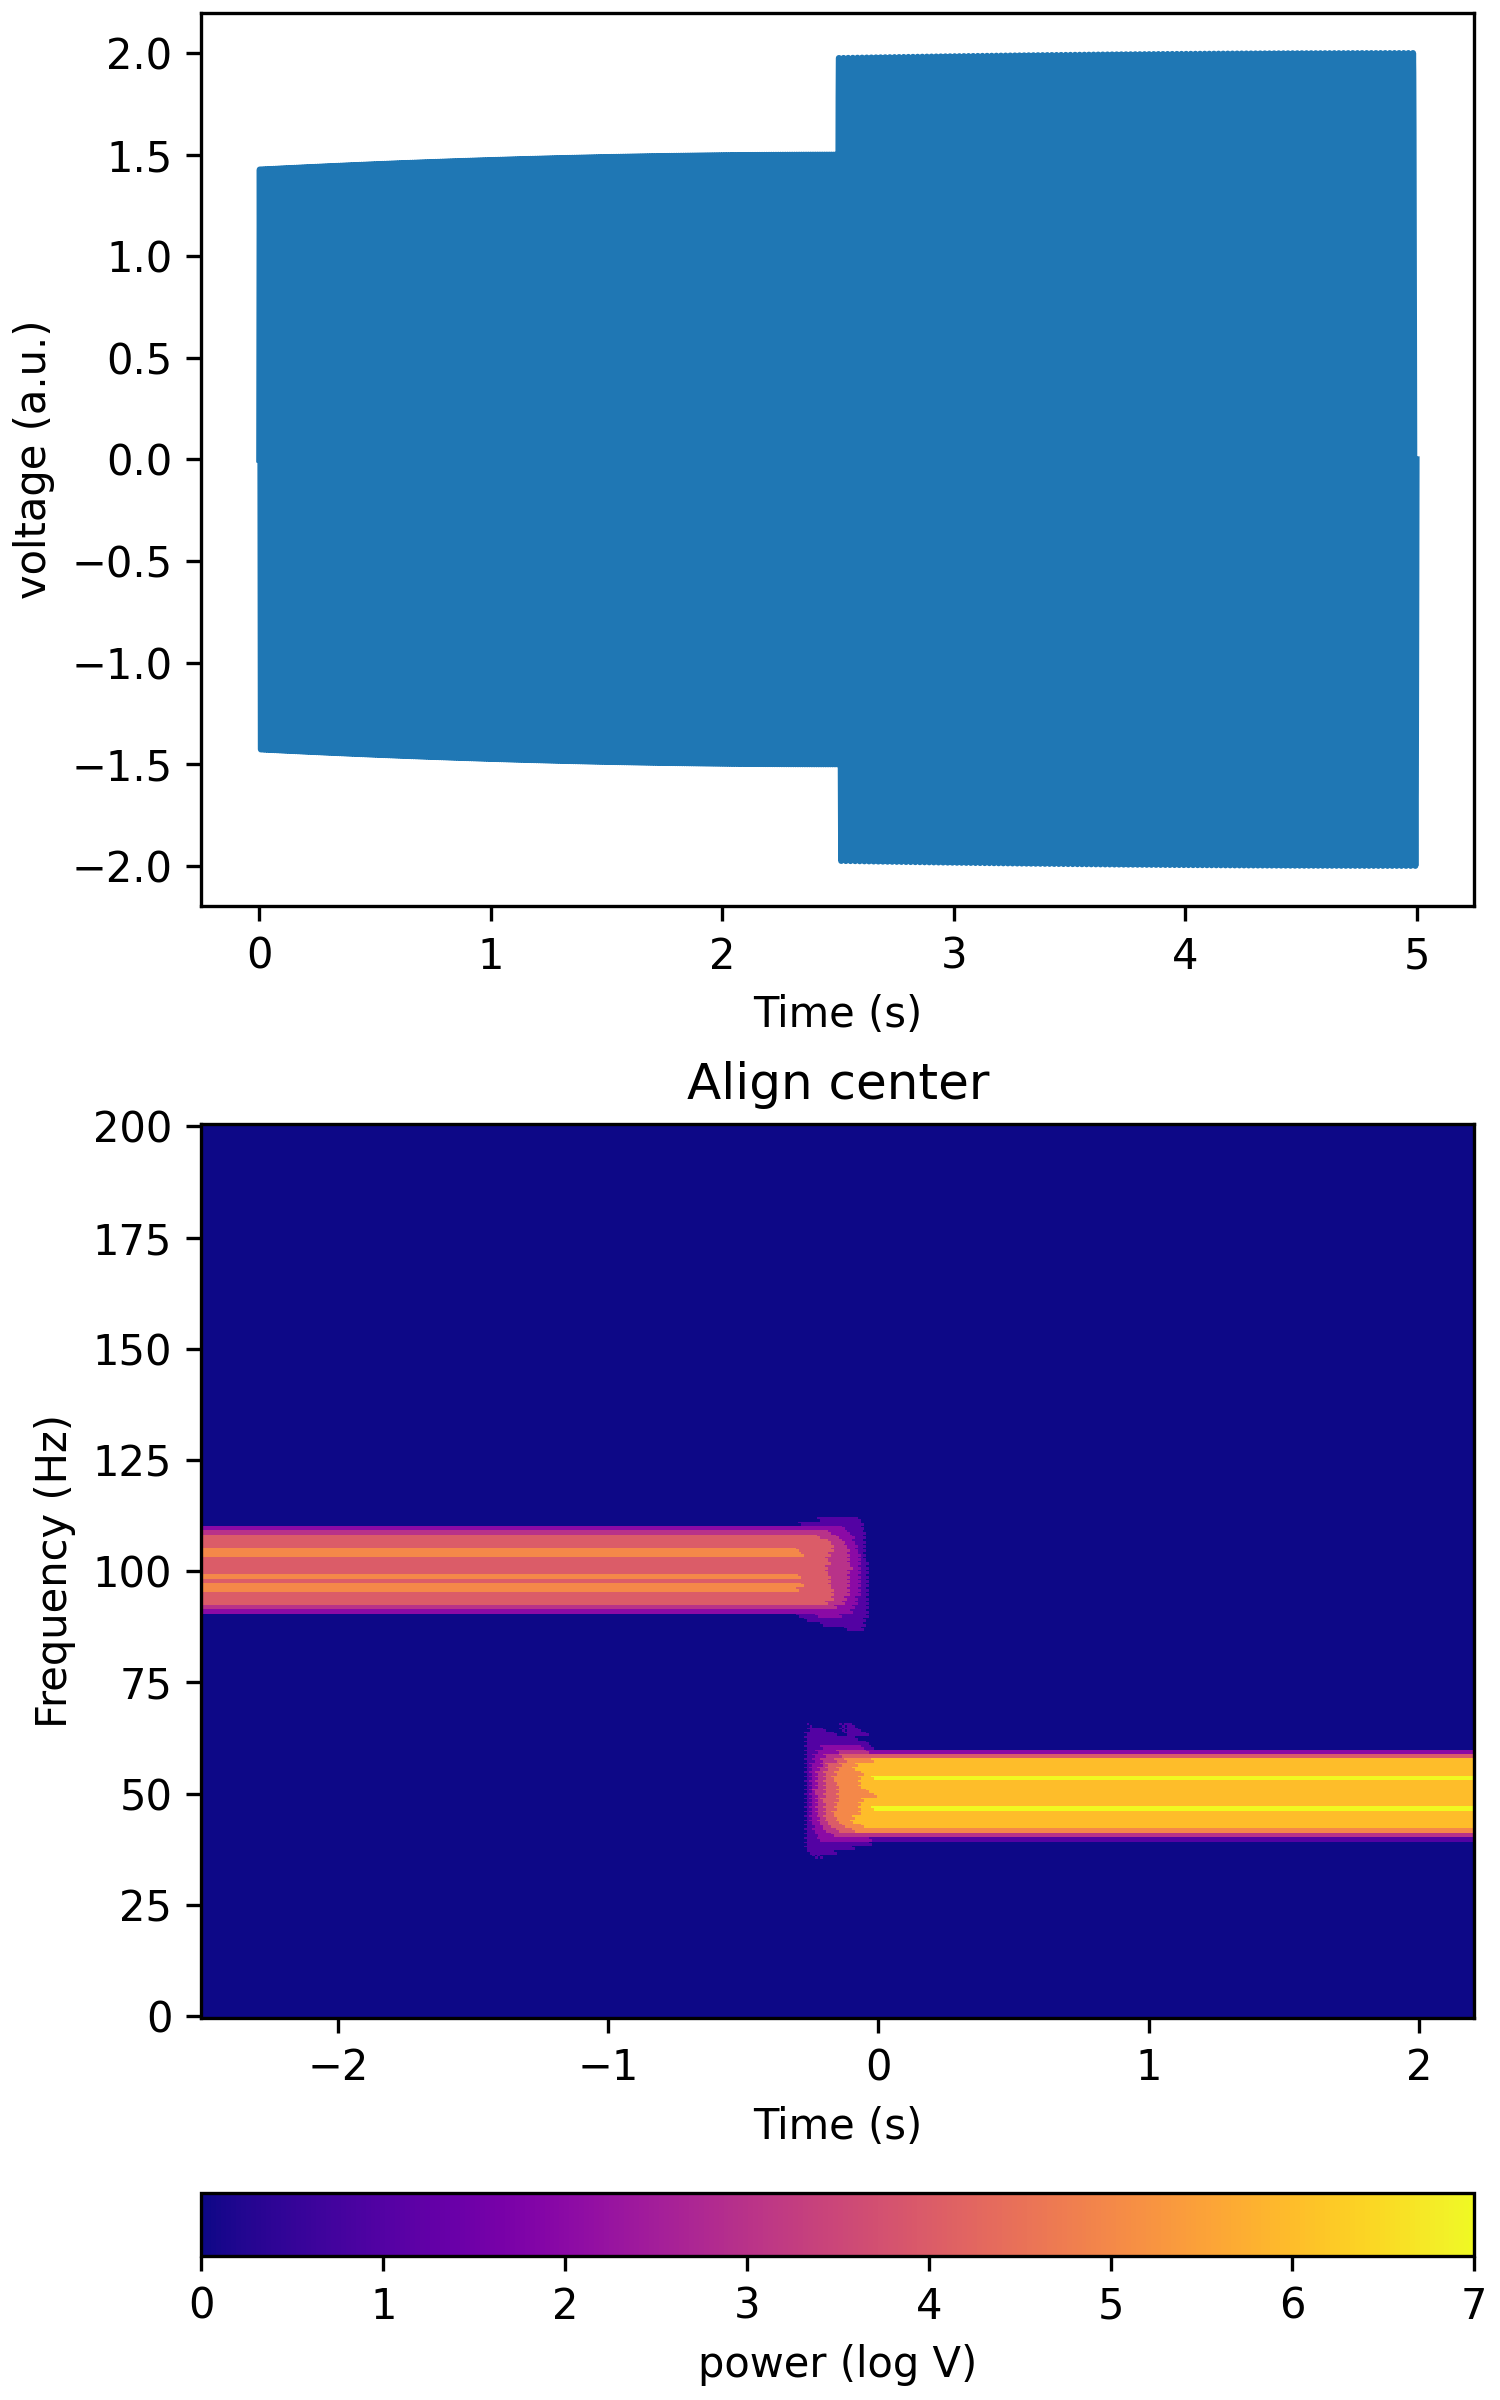
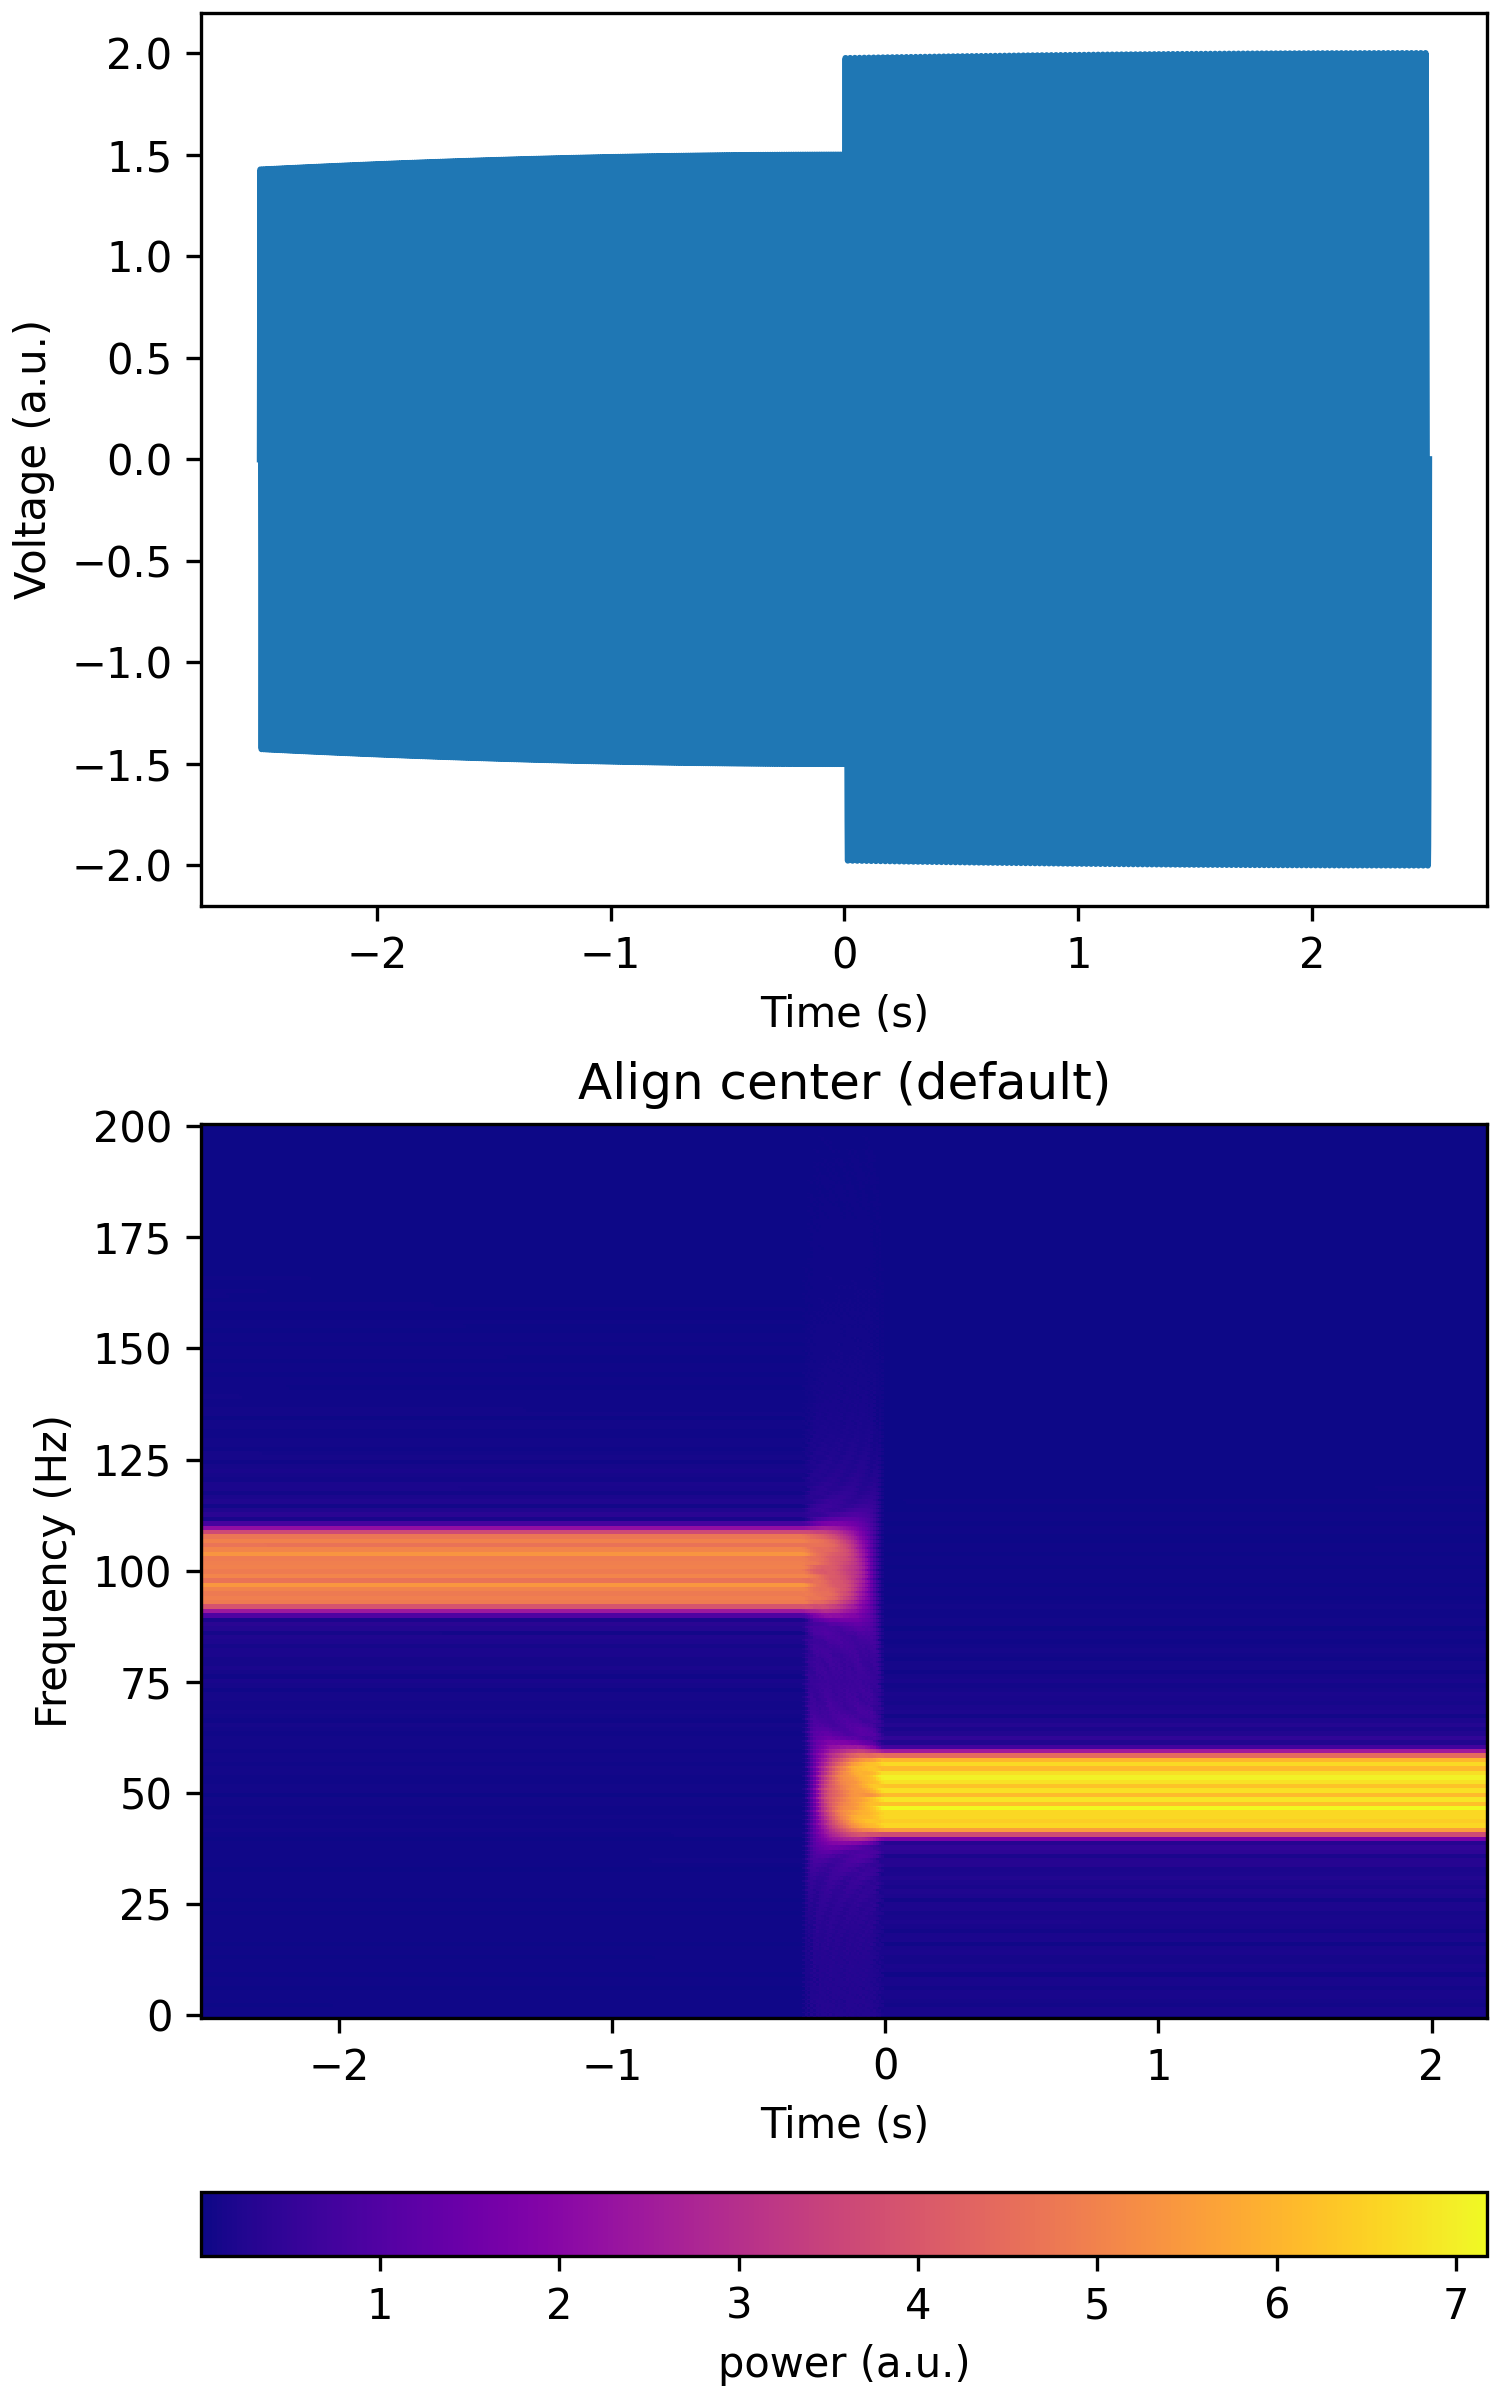
fix labels

diff --git a/tests/test_analysis.py b/tests/test_analysis.py
@@ -989,8 +989,9 @@ class HelperFunctions:
         erp[t>=time_before] = 2*np.sin(2*np.pi*50*t[t>=time_before]) # 50 Hz sine
 
         # Plot time domain
-        aopy.visualization.plot_timeseries(erp, fs, ax=ax[0])
-        ax[0].set_ylabel('voltage (a.u.)')
+        ax[0].plot(t - time_before, erp)
+        ax[0].set_ylabel('Voltage (a.u.)')
+        ax[0].set_xlabel('Time (s)')
 
         # Compute and time spectrogram
         t0 = time.perf_counter()
@@ -1001,7 +1002,7 @@ class HelperFunctions:
 
         # Plot spectrogram
         pcm = aopy.visualization.plot_tfr(abs(coef[:,:,0]), times - time_before, freqs, 'plasma', ax=ax[1])
-        fig.colorbar(pcm, label='power (log V)', orientation='horizontal', ax=ax[1])
+        fig.colorbar(pcm, label='power (a.u.)', orientation='horizontal', ax=ax[1])
 
 class SpectrumTests(unittest.TestCase):
 
@@ -1099,17 +1100,17 @@ class SpectrumTests(unittest.TestCase):
         savefig(docs_dir,filename)
 
         # Test two alignments
-        tfr_fun = lambda data, fs: aopy.analysis.calc_mt_tfr(data, n, p, k, fs, step=step, fk=fk, pad=2, ref=False, dtype='int16')
+        tfr_fun = lambda data, fs: aopy.analysis.calc_mt_tfr(data, n, p, k, fs, step=step, fk=fk, pad=2, ref=False)
         HelperFunctions.test_tfr_alignment(tfr_fun)
-        plt.title('Align center')
+        plt.title('Align center (default)')
         filename = 'tfr_mt_alignment_center.png'
         savefig(docs_dir,filename)
 
         def tfr_fun(data, fs):
-            freqs, time, spec = aopy.analysis.calc_mt_tfr(data, n, p, k, fs, step=step, fk=fk, pad=2, ref=False, dtype='int16')
+            freqs, time, spec = aopy.analysis.calc_mt_tfr(data, n, p, k, fs, step=step, fk=fk, pad=2, ref=False)
             return freqs, time+n/2, spec
         HelperFunctions.test_tfr_alignment(tfr_fun)
-        plt.title('Align right (plus n/2)')
+        plt.title('Align right (time += n/2)')
         filename = 'tfr_mt_alignment_right.png'
         savefig(docs_dir,filename)
 

diff --git a/aopy/analysis/base.py b/aopy/analysis/base.py
@@ -936,7 +936,11 @@ def calc_mt_tfr(ts_data, n, p, k, fs, step=None, fk=None, pad=2, ref=True, compl
 
     Note:
         The time axis returned by calc_mt_tfr corresponds to the center of the sliding window (`n` seconds). 
-        To shift to the right edge of each window, subtract `n/2` from `time`.
+        To shift to the right edge of each window, add `n/2` to `time`.
+
+        .. image:: _images/tfr_mt_alignment_center.png
+
+        .. image:: _images/tfr_mt_alignment_right.png
 
     Modified September 2023 to return magnitude instead of magnitude squared power. And correct the time axis.
     '''  
